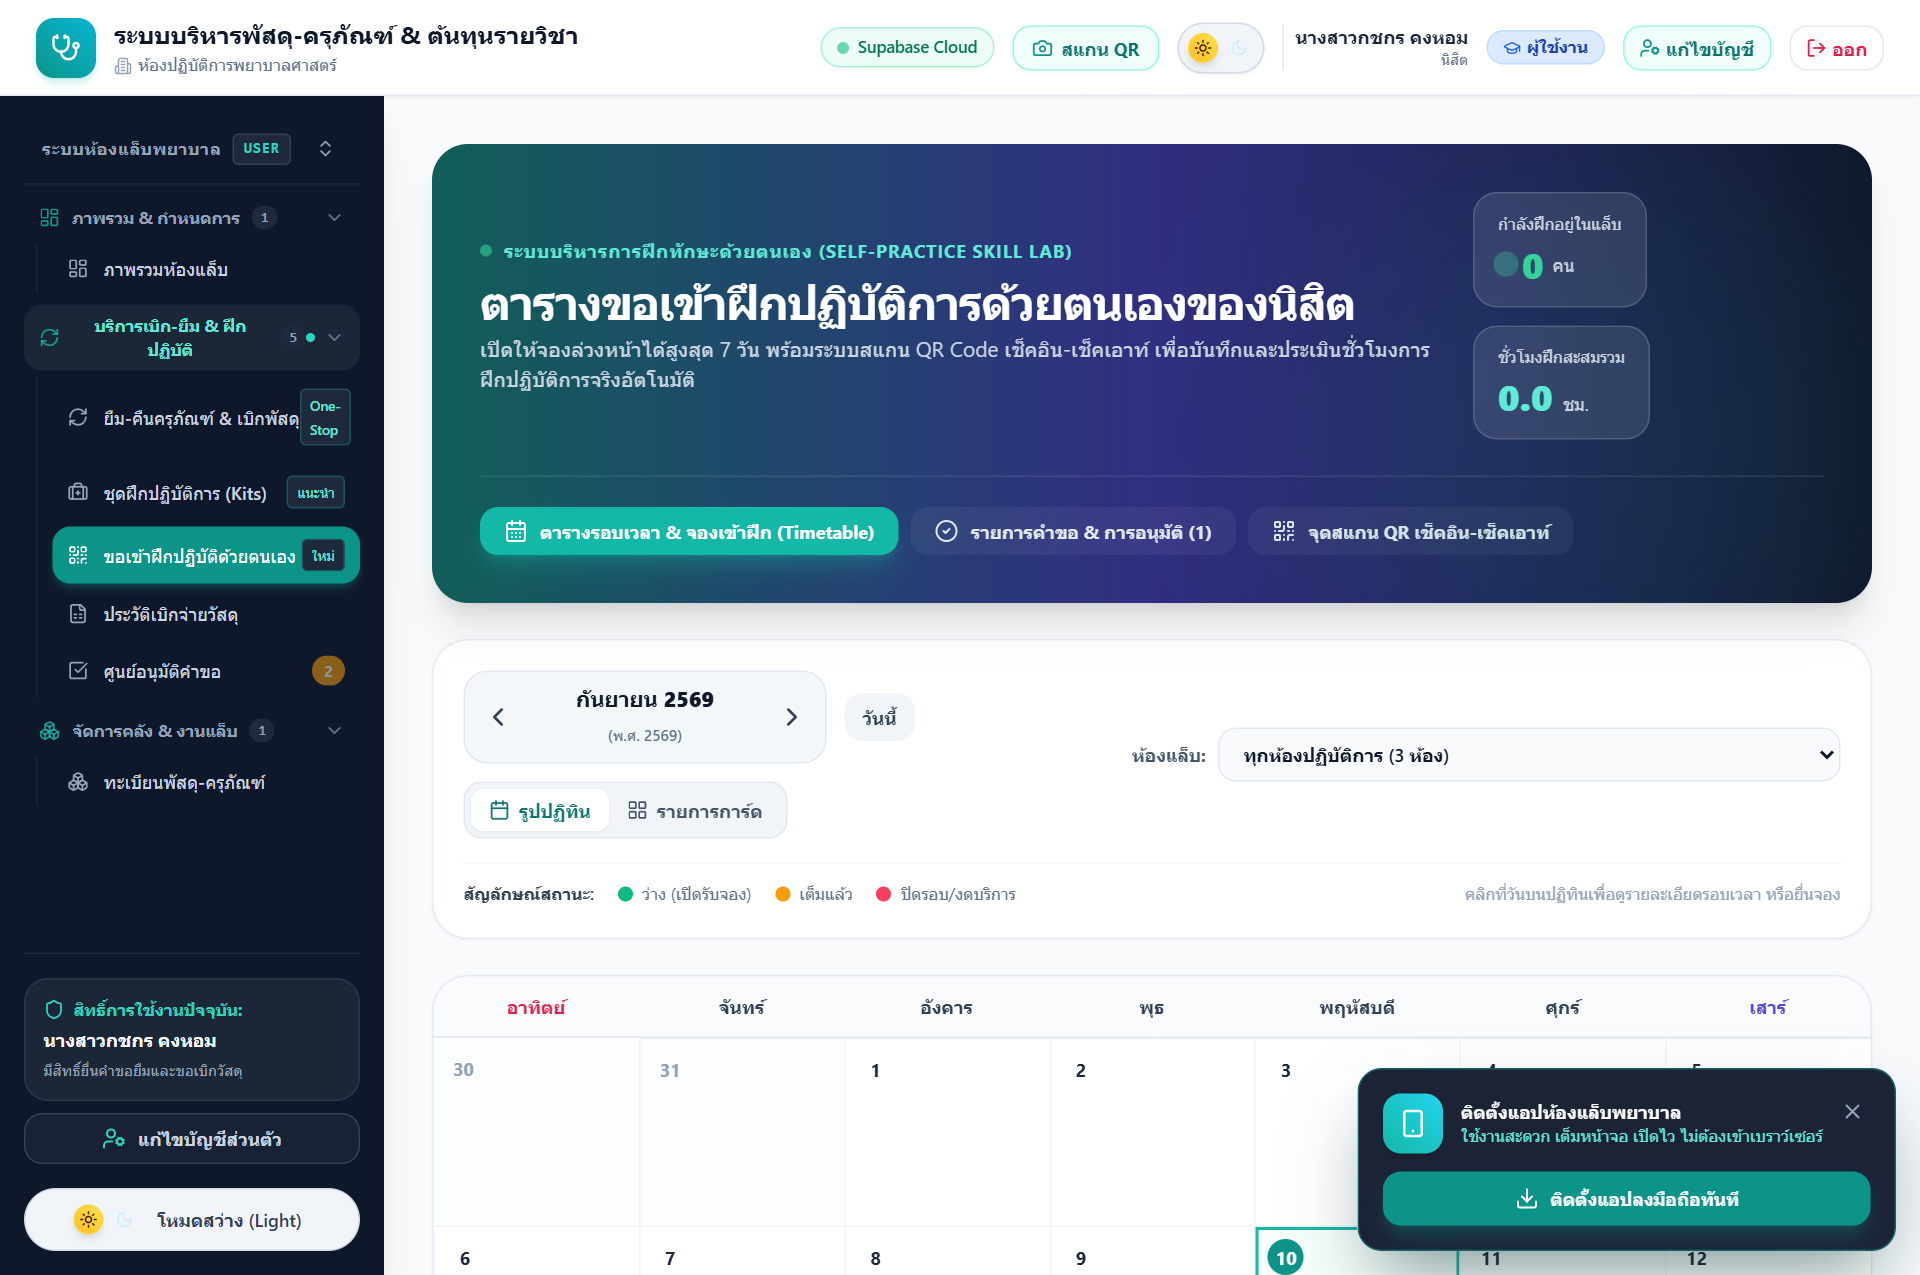
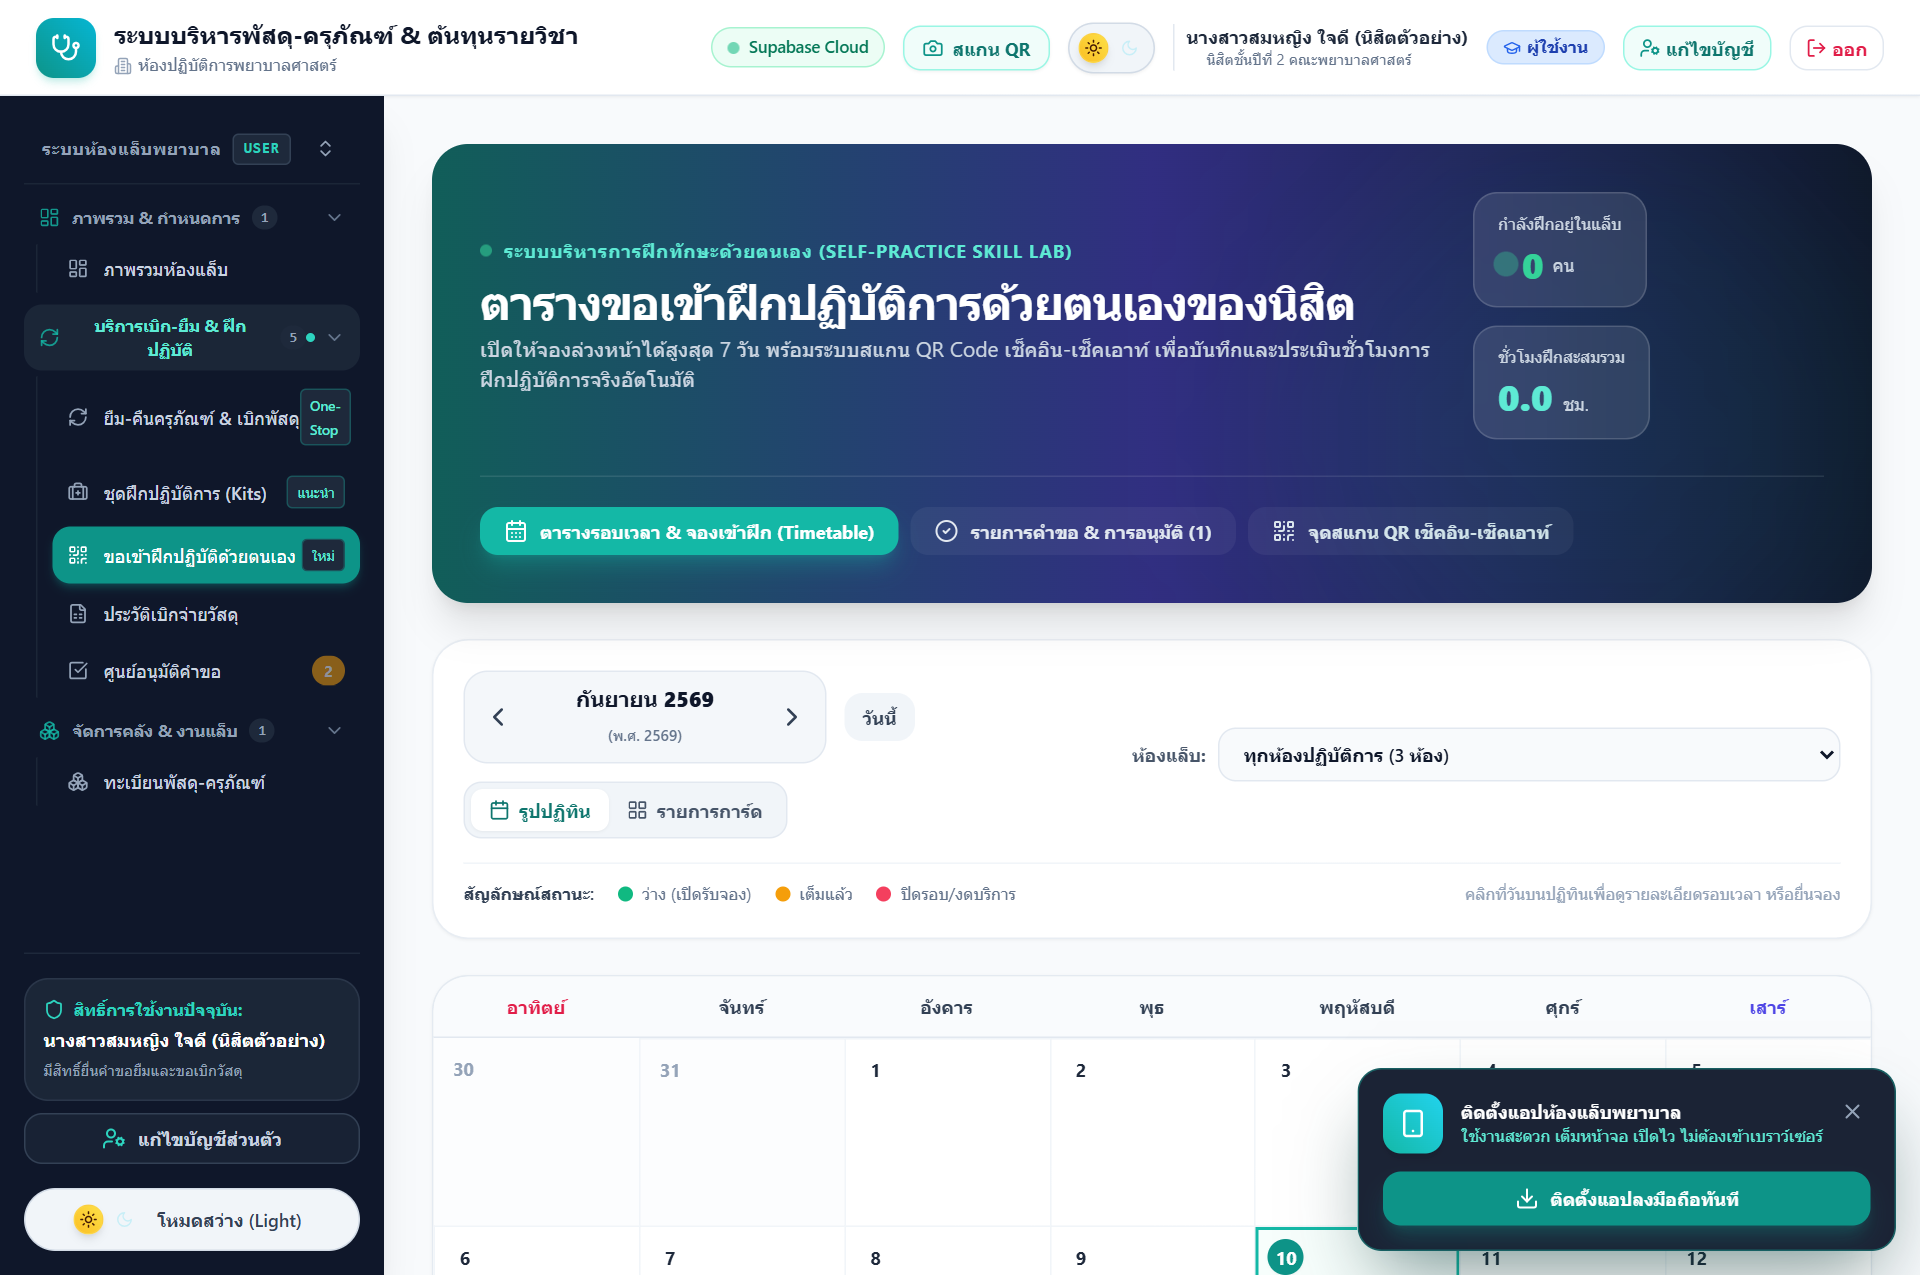
docs: update manual with purely mock names (fictional student and faculty) and fresh UI screenshots

Changed region(s): [[0.375, 0.0, 0.7812, 0.0612], [0.0625, 0.7953, 0.1562, 0.8259]]

diff --git a/scripts/seed_demo_manual_data.js b/scripts/seed_demo_manual_data.js
@@ -2,9 +2,9 @@ const { PrismaClient } = require('@prisma/client');
 const prisma = new PrismaClient();
 
 async function seed() {
-  console.log('--- STARTING DEMO DATA SEEDING ---');
+  console.log('--- STARTING DEMO DATA SEEDING (STRICTLY MOCK NAMES) ---');
 
-  // 1. Run cleanup first to ensure fresh state
+  // 1. Run cleanup first
   await prisma.practiceBooking.deleteMany({
     where: { bookingNumber: { startsWith: 'PB-DEMO' } }
   });
@@ -33,24 +33,43 @@ async function seed() {
   await prisma.course.deleteMany({ where: { code: { startsWith: 'DEMO-' } } });
   await prisma.item.deleteMany({ where: { code: { startsWith: 'DEMO-' } } });
   await prisma.category.deleteMany({ where: { code: { startsWith: 'DEMO-' } } });
-
-  // 2. Identify target demo users (existing real accounts used as demo actors)
-  let student = await prisma.user.findFirst({
-    where: { studentId: '6811700017' }
+  await prisma.user.deleteMany({
+    where: {
+      OR: [
+        { id: { startsWith: 'demo-' } },
+        { email: { contains: '.demo@ku.th' } },
+        { studentId: '6811799999' }
+      ]
+    }
   });
-  if (!student) {
-    student = await prisma.user.findFirst({ where: { role: 'USER' } });
-  }
 
-  let teacher = await prisma.user.findFirst({
-    where: { email: 'chanthida.n@ku.th' }
+  // 2. Create Explicit Mock Users (Fictional Actors)
+  const student = await prisma.user.create({
+    data: {
+      id: 'demo-student-001',
+      name: 'นางสาวสมหญิง ใจดี (นิสิตตัวอย่าง)',
+      email: 'somying.demo@ku.th',
+      studentId: '6811799999',
+      department: 'นิสิตชั้นปีที่ 2 คณะพยาบาลศาสตร์',
+      role: 'USER',
+      status: 'ACTIVE'
+    }
   });
-  if (!teacher) {
-    teacher = await prisma.user.findFirst({ where: { role: 'TEACHER' } });
-  }
 
-  console.log(`Demo Student: ${student?.name} (${student?.id})`);
-  console.log(`Demo Teacher: ${teacher?.name} (${teacher?.id})`);
+  const teacher = await prisma.user.create({
+    data: {
+      id: 'demo-teacher-001',
+      name: 'ผศ.ดร.พยาบาล อารีรัตน์ (อาจารย์ตัวอย่าง)',
+      email: 'nursing.demo@ku.th',
+      studentId: 'fnrsdemo',
+      department: 'ภาควิชาการพยาบาลพื้นฐาน, อาจารย์',
+      role: 'TEACHER',
+      status: 'ACTIVE'
+    }
+  });
+
+  console.log(`Created Mock Student: ${student.name} (${student.id})`);
+  console.log(`Created Mock Teacher: ${teacher.name} (${teacher.id})`);
 
   // 3. Create Demo Consumables Category & Items
   const conCat = await prisma.category.create({
@@ -110,14 +129,14 @@ async function seed() {
     }
   });
 
-  // 4. Create Demo Courses
+  // 4. Create Demo Courses with Fictional Instructor Names
   const c1 = await prisma.course.create({
     data: {
       code: 'DEMO-NUR1201',
       name: 'การพยาบาลพื้นฐาน (Fundamental of Nursing)',
       semester: '1',
       academicYear: '2569',
-      instructorName: 'ดร.ศิริพร อารีย์พงษ์',
+      instructorName: 'อาจารย์ ดร.วิชาการ เชี่ยวชาญ (อาจารย์ตัวอย่าง)',
       description: 'วิชาฝึกปฏิบัติการทักษะพื้นฐานทางการพยาบาลและการดูแลผู้ป่วยเบื้องต้น',
       allocatedBudget: 65000
     }
@@ -135,13 +154,11 @@ async function seed() {
     }
   });
 
-  // 5. Find Real Equipment Items
+  // 5. Find Real Equipment Items (for reference only, unedited)
   const eqItems = await prisma.item.findMany({
     where: { type: 'EQUIPMENT' },
     take: 4
   });
-
-  console.log(`Found ${eqItems.length} Equipment items, 3 Demo Consumables created`);
 
   const now = new Date();
   const todayEnd = new Date(now);
@@ -156,8 +173,8 @@ async function seed() {
   const past10Days = new Date(now.getTime() - 10 * 24 * 3600 * 1000);
   const past7Days = new Date(now.getTime() - 7 * 24 * 3600 * 1000);
 
-  // 6. Create Borrow Requests
-  // 6.1 DUE TODAY (Orange Alert Badge on Dashboard!)
+  // 6. Create Borrow Requests for Mock Student
+  // 6.1 DUE TODAY (Orange Alert Badge)
   const br1 = await prisma.borrowRequest.create({
     data: {
       requestNumber: 'REQ-DEMO-2609-0001',
@@ -179,7 +196,7 @@ async function seed() {
     });
   }
 
-  // 6.2 DUE IN 2 DAYS (Yellow Alert Badge on Dashboard!)
+  // 6.2 DUE IN 2 DAYS (Yellow Alert Badge)
   const br2 = await prisma.borrowRequest.create({
     data: {
       requestNumber: 'REQ-DEMO-2609-0002',
@@ -266,8 +283,8 @@ async function seed() {
     });
   }
 
-  // 7. Create Requisitions
-  // 7.1 Pending Requisition (for Teacher approval on /approvals)
+  // 7. Create Requisitions for Mock Student
+  // 7.1 Pending Requisition (for Teacher approval)
   const rq1 = await prisma.requisitionRequest.create({
     data: {
       requestNumber: 'REQ-DEMO-MAT-01',
@@ -308,7 +325,7 @@ async function seed() {
       purpose: 'เบิกวัสดุฝึกปฏิบัติการปฐมพยาบาลและการทำแผล ประจำสัปดาห์ที่ 3 [DEMO]',
       dateNeeded: past10Days,
       status: 'DISPENSED',
-      advisorName: 'ดร.ศิริพร อารีย์พงษ์',
+      advisorName: 'อาจารย์ ดร.วิชาการ เชี่ยวชาญ (อาจารย์ตัวอย่าง)',
       approverId: teacher.id,
       dispensedAt: past7Days,
       totalCost: 5200
@@ -407,7 +424,7 @@ async function seed() {
     }
   });
 
-  // 9. Create Approved Practice Booking for Student with QR Pass!
+  // 9. Create Approved Practice Booking for Mock Student with QR Pass!
   const booking = await prisma.practiceBooking.create({
     data: {
       bookingNumber: 'PB-DEMO-2609-0001',
@@ -421,12 +438,12 @@ async function seed() {
       approverId: teacher.id,
       approvedAt: now,
       additionalEquipment: 'หุ่นฝึกสวนปัสสาวะหญิง, ถุงมือเบอร์ 6.5, ผ้าก๊อซแพ็ค 10',
-      notes: 'สมาชิกกลุ่ม: 1. นางสาวกชกร คงหอม (6811700017) 2. นายธนกร สุขประเสริฐ 3. นางสาวกานดา วิเศษศิลป์'
+      notes: 'สมาชิกกลุ่ม: 1. นางสาวสมหญิง ใจดี (หัวหน้ากลุ่ม) 2. นายรักเรียน ขยันยิ่ง 3. นางสาวกานดา สดใส'
     }
   });
 
   console.log(`Created Practice Booking: ${booking.bookingNumber} with QR Token: ${booking.qrCodeToken}`);
-  console.log('--- DEMO DATA SEEDED SUCCESSFULLY: 5 Borrows, 2 Requisitions, 3 Slots, 1 Booking with Pass ---');
+  console.log('--- DEMO DATA SEEDED WITH STRICTLY MOCK/FICTIONAL NAMES ---');
   await prisma.$disconnect();
 }
 

diff --git a/scripts/capture_with_demo.js b/scripts/capture_with_demo.js
@@ -9,23 +9,24 @@ if (!fs.existsSync(OUTPUT_DIR)) {
   fs.mkdirSync(OUTPUT_DIR, { recursive: true });
 }
 
-const studentUser = {
-  id: 'cmts3ebf30000l104gibrxmxz',
-  name: 'นางสาวกชกร คงหอม',
-  email: 'kodchakorn.kon@ku.th',
+// Strictly Mock / Fictional Users
+const mockStudentUser = {
+  id: 'demo-student-001',
+  name: 'นางสาวสมหญิง ใจดี (นิสิตตัวอย่าง)',
+  email: 'somying.demo@ku.th',
   role: 'USER',
   department: 'นิสิตชั้นปีที่ 2 คณะพยาบาลศาสตร์',
-  studentId: '6811700017',
+  studentId: '6811799999',
   status: 'ACTIVE'
 };
 
-const teacherUser = {
-  id: 'cmts5wrw90004la049ac6rce0',
-  name: 'นาง จันทร์ธิดา นิมิตกุล',
-  email: 'chanthida.n@ku.th',
+const mockTeacherUser = {
+  id: 'demo-teacher-001',
+  name: 'ผศ.ดร.พยาบาล อารีรัตน์ (อาจารย์ตัวอย่าง)',
+  email: 'nursing.demo@ku.th',
   role: 'TEACHER',
-  department: 'ภาควิชาการพยาบาลมารดา ทารก และการผดุงครรภ์',
-  studentId: 'fnrscin',
+  department: 'ภาควิชาการพยาบาลพื้นฐาน, อาจารย์',
+  studentId: 'fnrsdemo',
   status: 'ACTIVE'
 };
 
@@ -43,7 +44,7 @@ async function setAuth(page, user) {
 }
 
 async function run() {
-  console.log('Launching Edge Browser...');
+  console.log('Launching Edge Browser for Mock Screenshots...');
   const browser = await puppeteer.launch({
     executablePath: EDGE_PATH,
     headless: 'new',
@@ -60,17 +61,17 @@ async function run() {
     await new Promise(r => setTimeout(r, 800));
     await page.screenshot({ path: path.join(OUTPUT_DIR, '01_login_page.png') });
 
-    // Switch to Student
-    await setAuth(page, studentUser);
+    // Switch to Mock Student
+    await setAuth(page, mockStudentUser);
 
     // 2. Student Dashboard
-    console.log('2. Capturing Student Dashboard (with live demo alerts)...');
+    console.log('2. Capturing Mock Student Dashboard...');
     await page.goto('http://localhost:3000/', { waitUntil: 'networkidle2' });
     await new Promise(r => setTimeout(r, 2000));
     await page.screenshot({ path: path.join(OUTPUT_DIR, '02_student_dashboard.png') });
 
     // 3. Borrow Page
-    console.log('3. Capturing Borrow Page (with demo request list)...');
+    console.log('3. Capturing Mock Borrow Page...');
     await page.goto('http://localhost:3000/borrow', { waitUntil: 'networkidle2' });
     await new Promise(r => setTimeout(r, 2000));
     await page.screenshot({ path: path.join(OUTPUT_DIR, '03_borrow_page.png') });
@@ -100,13 +101,13 @@ async function run() {
     await page.screenshot({ path: path.join(OUTPUT_DIR, '05_kits_page.png') });
 
     // 6. Practice Room Booking Timetable
-    console.log('6. Capturing Practice Booking Timetable (with live slots)...');
+    console.log('6. Capturing Practice Booking Timetable...');
     await page.goto('http://localhost:3000/practice', { waitUntil: 'networkidle2' });
     await new Promise(r => setTimeout(r, 2000));
     await page.screenshot({ path: path.join(OUTPUT_DIR, '06_practice_timetable.png') });
 
     // 7. Practice Booking Tab / Pass
-    console.log('7. Capturing Practice My Bookings (with QR Pass)...');
+    console.log('7. Capturing Practice My Bookings (with Mock QR Pass)...');
     await page.evaluate(() => {
       const btns = Array.from(document.querySelectorAll('button'));
       const tab = btns.find(b => b.innerText.includes('จองของฉัน') || b.innerText.includes('รายการจอง'));
@@ -131,23 +132,23 @@ async function run() {
     await new Promise(r => setTimeout(r, 1500));
     await page.screenshot({ path: path.join(OUTPUT_DIR, '08_asset_detail_page.png') });
 
-    // 9. Switch to Teacher User
-    console.log('9. Switching to Teacher User...');
-    await setAuth(page, teacherUser);
+    // 9. Switch to Mock Teacher User
+    console.log('9. Switching to Mock Teacher User...');
+    await setAuth(page, mockTeacherUser);
 
     // 10. Teacher Approvals Page
-    console.log('10. Capturing Approvals Page (with pending requests)...');
+    console.log('10. Capturing Mock Teacher Approvals Page...');
     await page.goto('http://localhost:3000/approvals', { waitUntil: 'networkidle2' });
     await new Promise(r => setTimeout(r, 2000));
     await page.screenshot({ path: path.join(OUTPUT_DIR, '09_teacher_approvals.png') });
 
     // 11. Courses & Cost Analytics Page
-    console.log('11. Capturing Courses Page (with budgets and coordinator)...');
+    console.log('11. Capturing Mock Courses Page...');
     await page.goto('http://localhost:3000/courses', { waitUntil: 'networkidle2' });
     await new Promise(r => setTimeout(r, 2000));
     await page.screenshot({ path: path.join(OUTPUT_DIR, '10_courses_analytics.png') });
 
-    console.log('ALL 10 FRESH SCREENSHOTS CAPTURED WITH RICH DEMO DATA!');
+    console.log('ALL SCREENSHOTS CAPTURED WITH STRICTLY MOCK/FICTIONAL NAMES!');
   } catch (err) {
     console.error('Capture error:', err);
   } finally {

diff --git a/scripts/cleanup_demo_data.js b/scripts/cleanup_demo_data.js
@@ -4,17 +4,11 @@ const prisma = new PrismaClient();
 async function cleanup() {
   console.log('--- STARTING DEMO DATA CLEANUP ---');
 
-  // 1. Delete Demo Practice Booking Members & Bookings
-  const demoBookings = await prisma.practiceBooking.findMany({
-    where: { bookingNumber: { startsWith: 'PB-DEMO' } },
-    select: { id: true }
+  // 1. Delete Demo Practice Bookings
+  const delBookings = await prisma.practiceBooking.deleteMany({
+    where: { bookingNumber: { startsWith: 'PB-DEMO' } }
   });
-  if (demoBookings.length > 0) {
-    const bIds = demoBookings.map(b => b.id);
-    await prisma.practiceBookingMember.deleteMany({ where: { bookingId: { in: bIds } } });
-    const delBookings = await prisma.practiceBooking.deleteMany({ where: { id: { in: bIds } } });
-    console.log(`Deleted ${delBookings.count} demo practice bookings`);
-  }
+  console.log(`Deleted ${delBookings.count} demo practice bookings`);
 
   // 2. Delete Demo Practice Slots
   const delSlots = await prisma.practiceSlot.deleteMany({
@@ -22,13 +16,7 @@ async function cleanup() {
   });
   console.log(`Deleted ${delSlots.count} demo practice slots`);
 
-  // 3. Delete Demo Practice Rooms if any
-  const delRooms = await prisma.practiceRoom.deleteMany({
-    where: { code: { startsWith: 'LAB-DEMO' } }
-  });
-  console.log(`Deleted ${delRooms.count} demo practice rooms`);
-
-  // 4. Delete Demo Borrow Items & Requests
+  // 3. Delete Demo Borrow Items & Requests
   const demoBorrows = await prisma.borrowRequest.findMany({
     where: { requestNumber: { startsWith: 'REQ-DEMO' } },
     select: { id: true }
@@ -40,7 +28,7 @@ async function cleanup() {
     console.log(`Deleted ${delBorrows.count} demo borrow requests`);
   }
 
-  // 5. Delete Demo Requisition Items & Requests
+  // 4. Delete Demo Requisition Items & Requests
   const demoReqs = await prisma.requisitionRequest.findMany({
     where: { requestNumber: { startsWith: 'REQ-DEMO' } },
     select: { id: true }
@@ -52,11 +40,34 @@ async function cleanup() {
     console.log(`Deleted ${delReqs.count} demo requisition requests`);
   }
 
-  // 6. Delete Demo Courses
+  // 5. Delete Demo Courses
   const delCourses = await prisma.course.deleteMany({
     where: { code: { startsWith: 'DEMO-' } }
   });
   console.log(`Deleted ${delCourses.count} demo courses`);
+
+  // 6. Delete Demo Consumables & Category
+  const delItems = await prisma.item.deleteMany({
+    where: { code: { startsWith: 'DEMO-' } }
+  });
+  console.log(`Deleted ${delItems.count} demo items`);
+
+  const delCats = await prisma.category.deleteMany({
+    where: { code: { startsWith: 'DEMO-' } }
+  });
+  console.log(`Deleted ${delCats.count} demo categories`);
+
+  // 7. Delete Mock Users
+  const delUsers = await prisma.user.deleteMany({
+    where: {
+      OR: [
+        { id: { startsWith: 'demo-' } },
+        { email: { contains: '.demo@ku.th' } },
+        { studentId: '6811799999' }
+      ]
+    }
+  });
+  console.log(`Deleted ${delUsers.count} mock users`);
 
   console.log('--- CLEANUP COMPLETED: Master data intact ---');
   await prisma.$disconnect();
